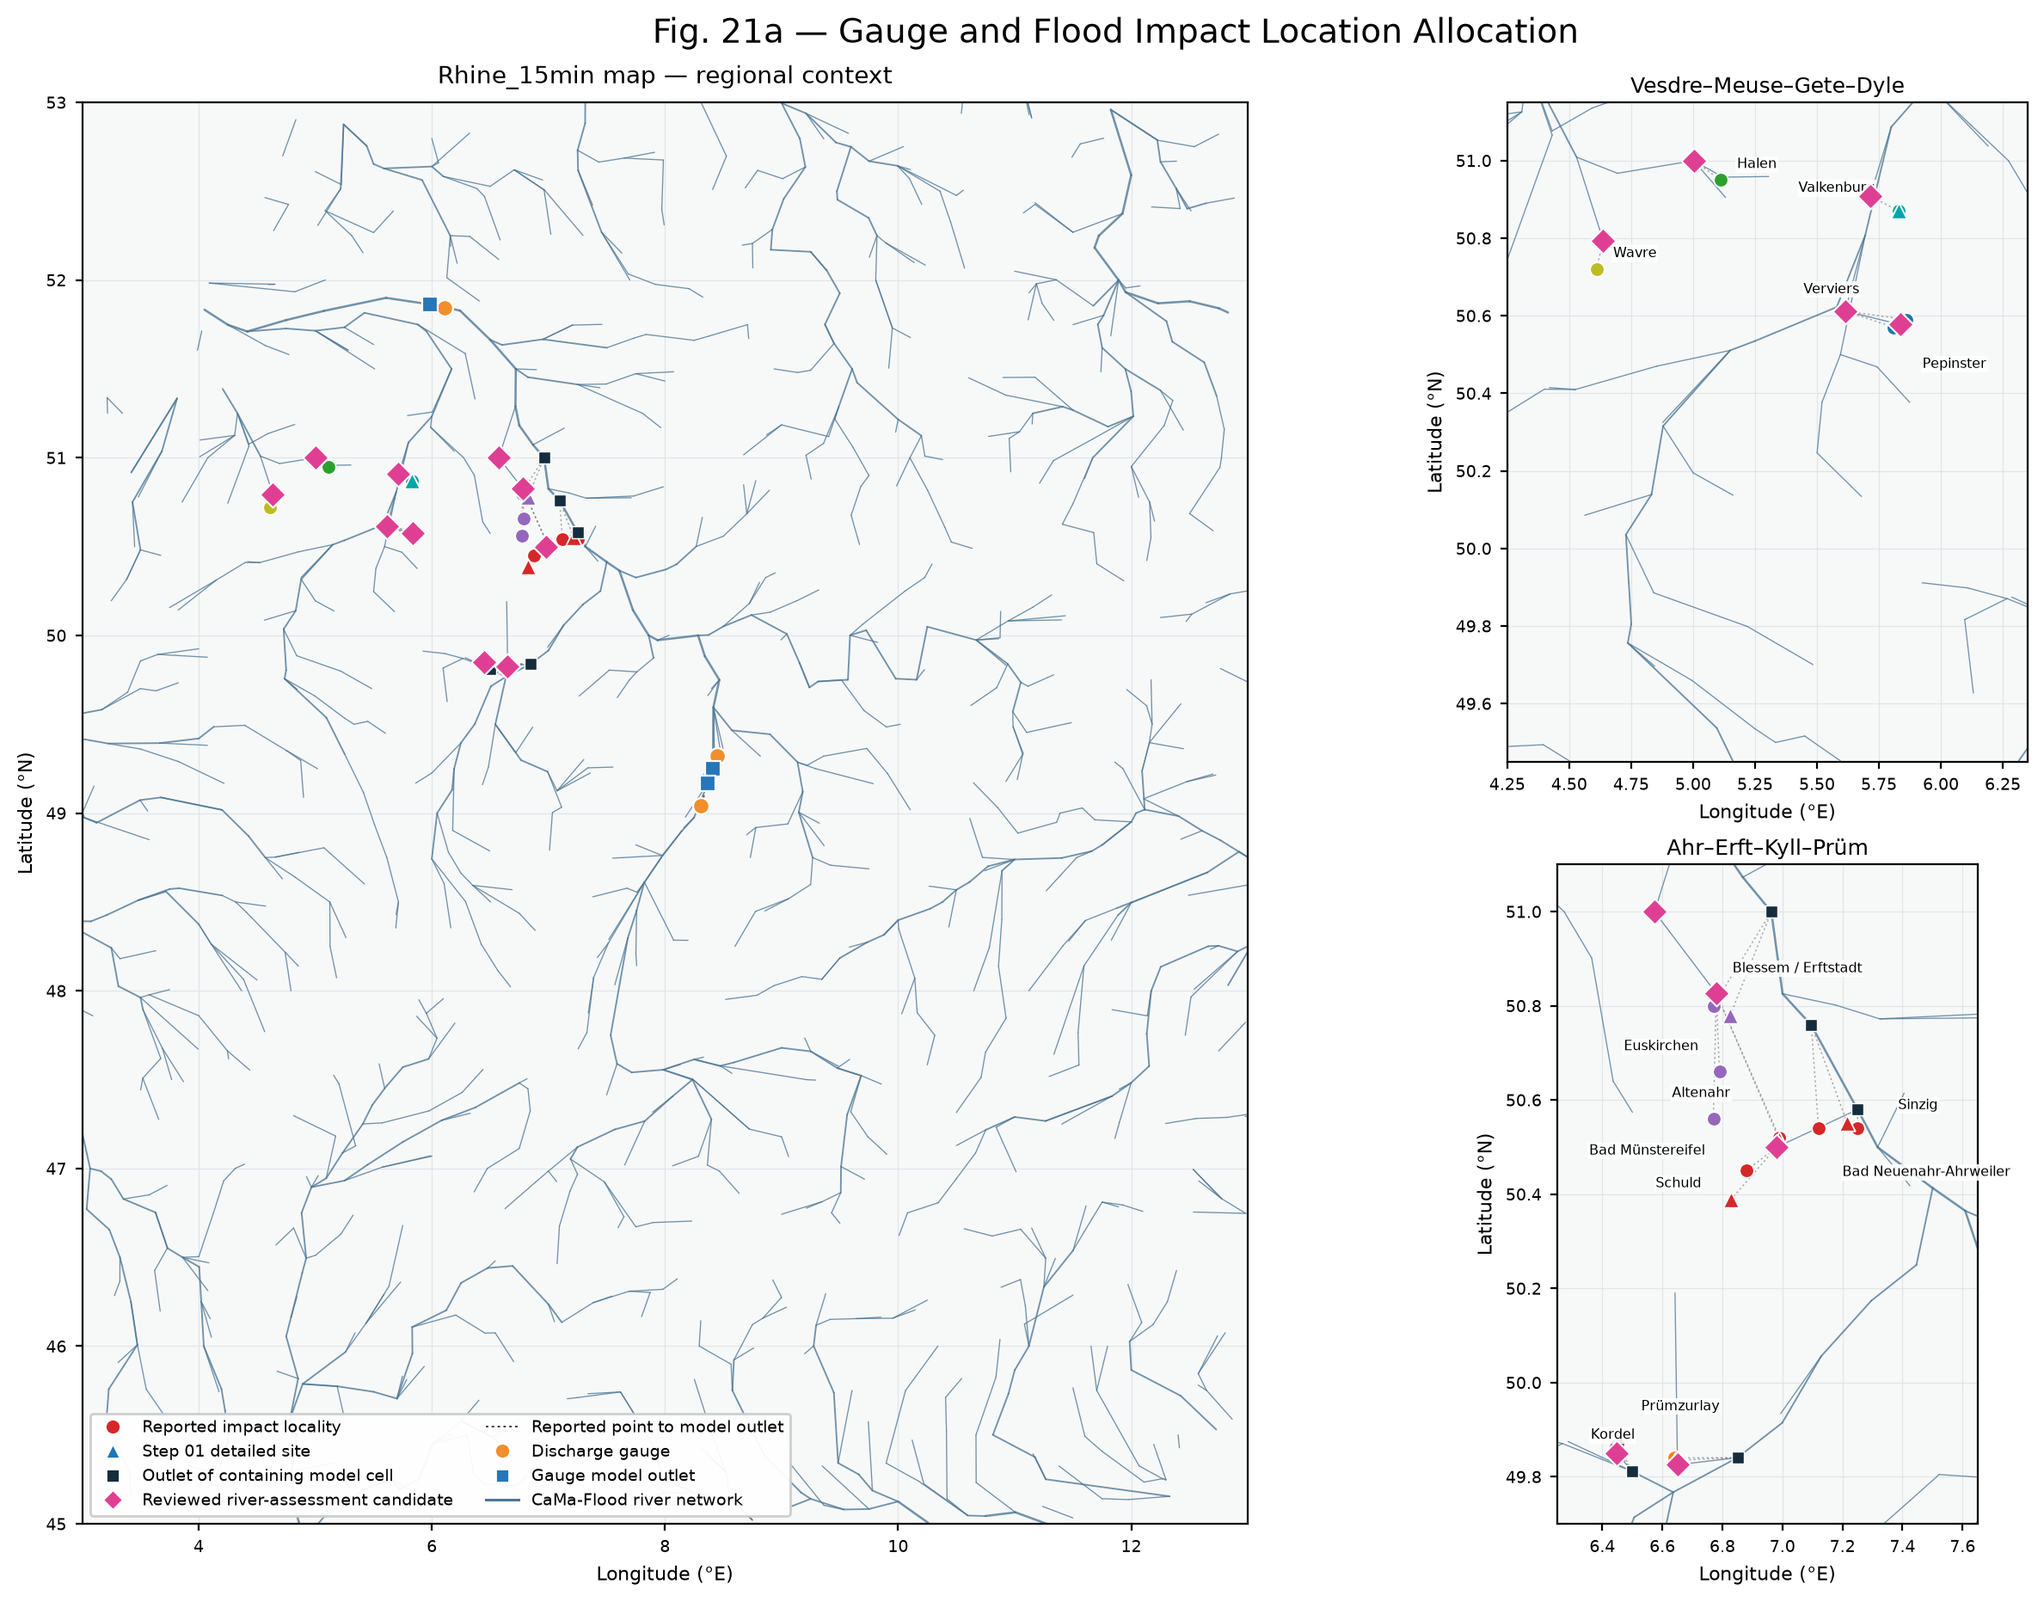
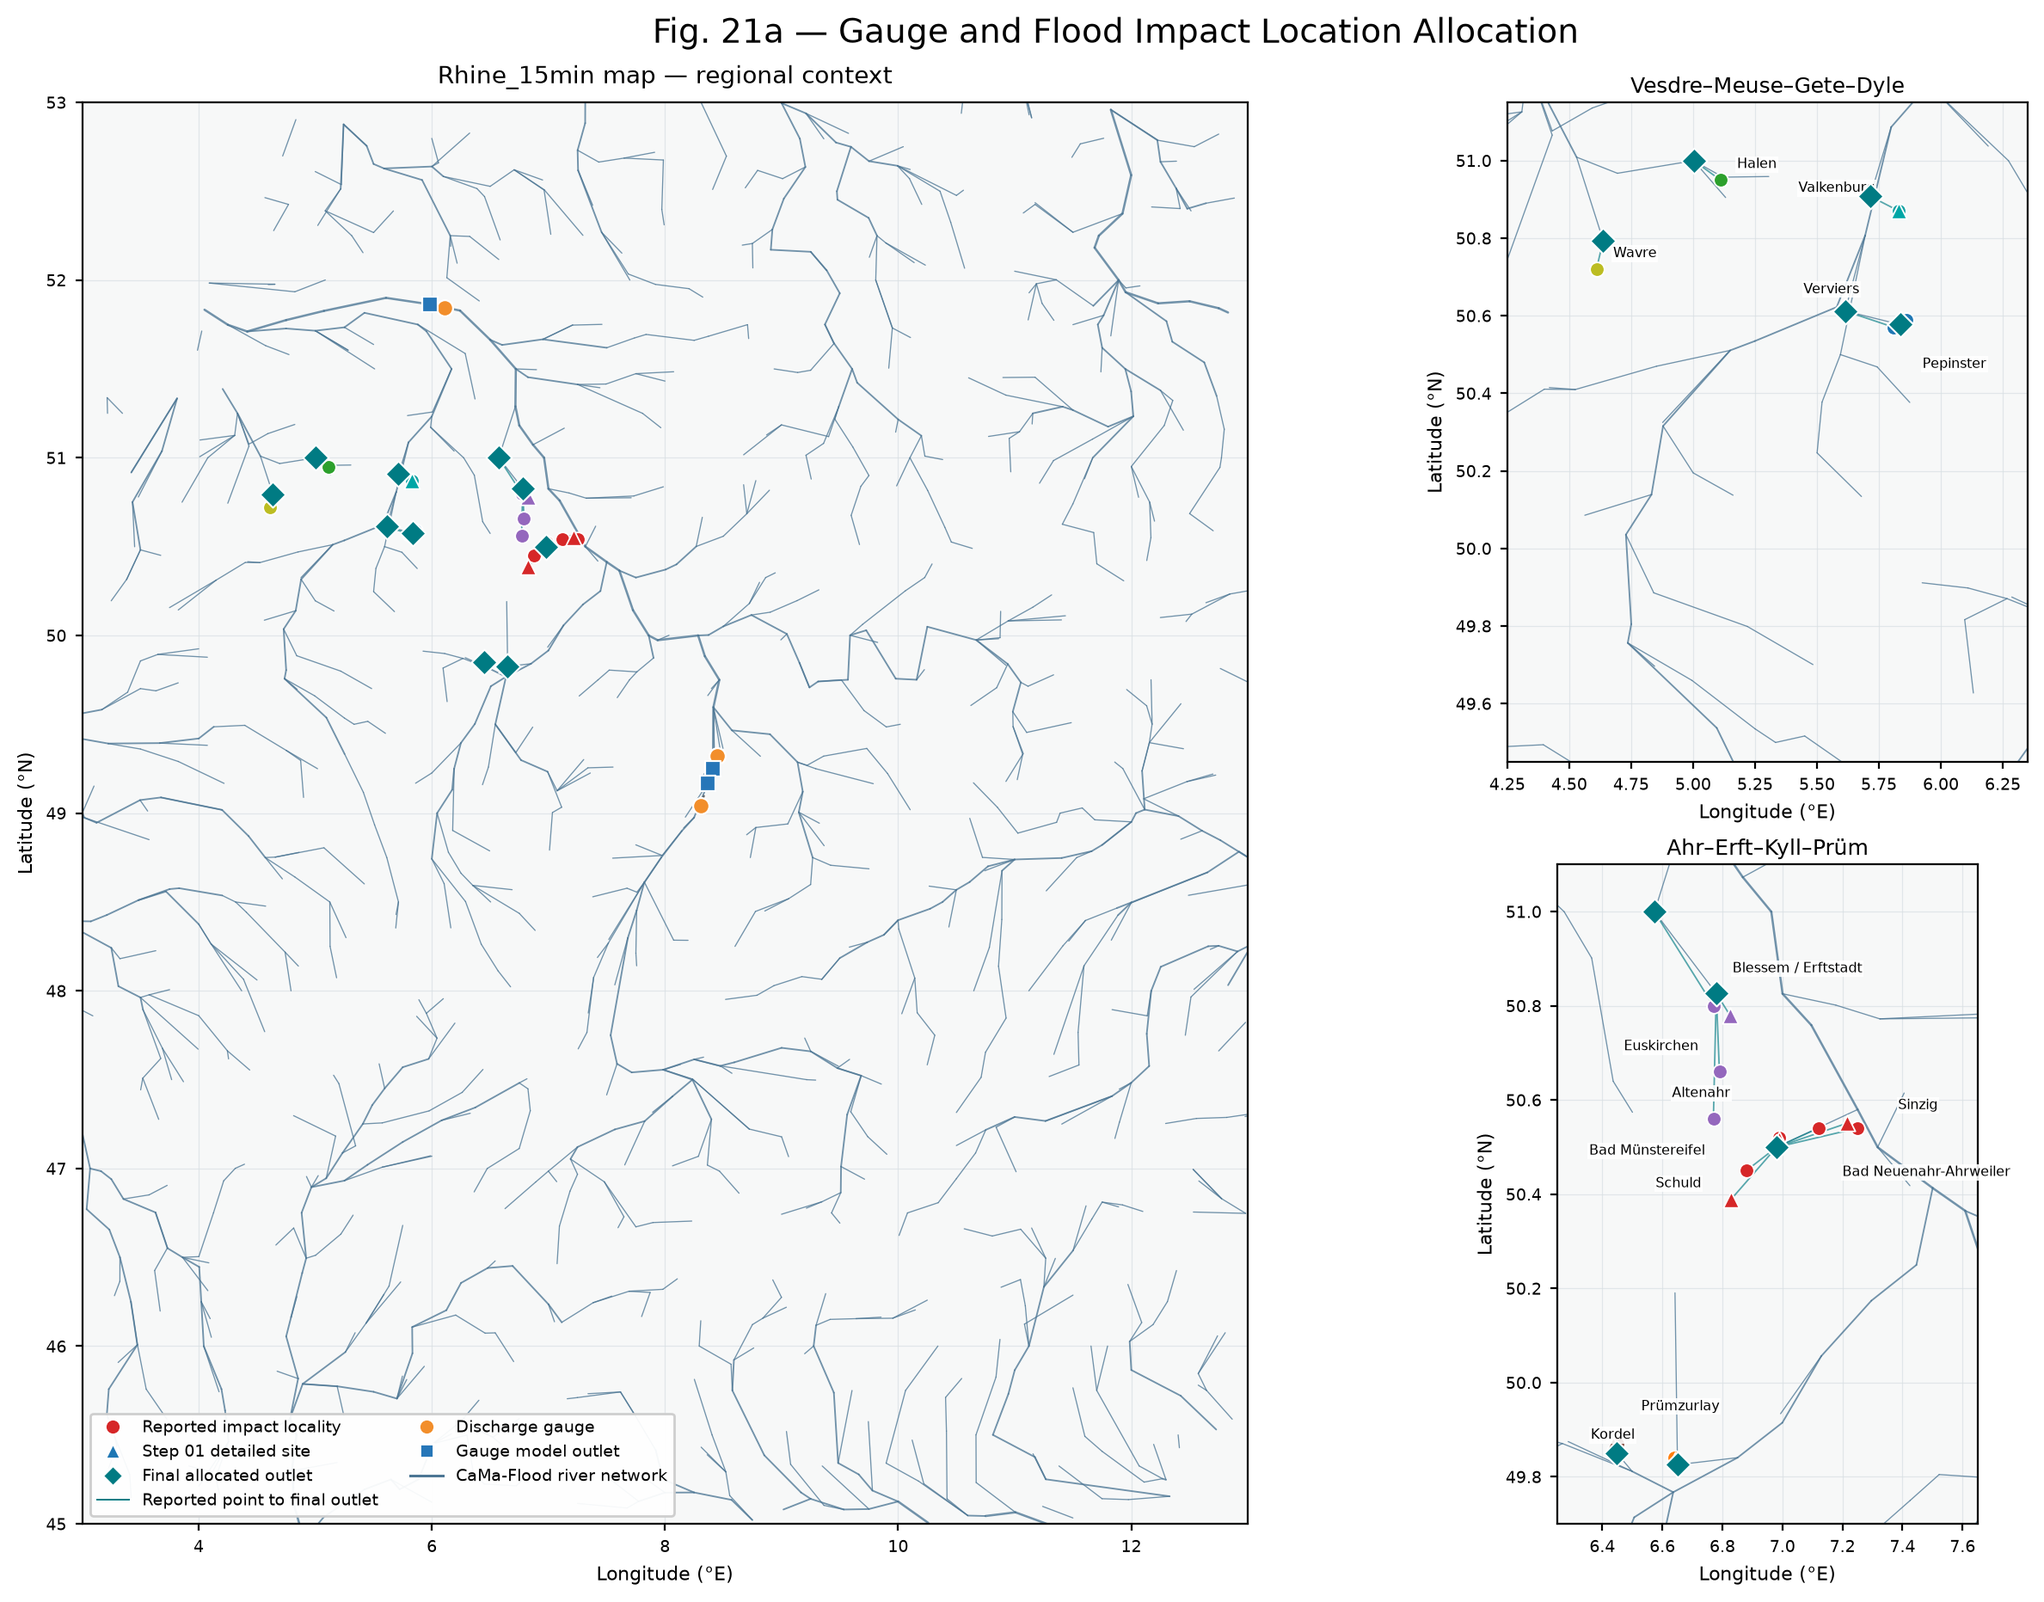
Show only final adopted allocations in Figure 21

diff --git a/tutorial/tutorial11-event_evaluation/script/f21-gauge_allocation.py b/tutorial/tutorial11-event_evaluation/script/f21-gauge_allocation.py
@@ -131,33 +131,34 @@ RIVER_COLORS = {
 }
 
 
+def final_impact_outlet(row):
+    """Return only the adopted evaluation outlet; never fall back to old assignments."""
+    if (row.get("river_allocation_status") not in {"confirmed", "plausible"} or
+            not row.get("river_model_outlet_lon") or not row.get("river_model_outlet_lat")):
+        return None
+    return float(row["river_model_outlet_lon"]), float(row["river_model_outlet_lat"])
+
+
 def add_impact_allocations(ax, records: list[dict[str, str]], label_impacts: bool = False,
                            label_details: bool = False) -> None:
     """Show source locations, assigned model outlets and their separation."""
     # Repeated reports can refer to one town or one grid cell. Draw each
     # coordinate-to-outlet connector only once to avoid artificial emphasis.
-    connectors = set()
-    river_candidates = set()
+    connectors, outlets = set(), set()
     for row in records:
-        if row["allocation_status"] != "assigned_to_containing_grid_cell":
+        outlet = final_impact_outlet(row)
+        if outlet is None or not row["observed_lon"] or not row["observed_lat"]:
             continue
-        observed = (float(row["observed_lon"]), float(row["observed_lat"]))
-        outlet = (float(row["model_outlet_lon"]), float(row["model_outlet_lat"]))
-        key = tuple(round(v, 6) for v in (*observed, *outlet))
+        observed = float(row["observed_lon"]), float(row["observed_lat"])
+        key = tuple(round(value, 6) for value in (*observed, *outlet))
         if key not in connectors:
             ax.plot([observed[0], outlet[0]], [observed[1], outlet[1]],
-                    color="#3d3d3d", linewidth=0.55, linestyle=(0, (1.5, 2)),
-                    alpha=0.42, zorder=3)
+                    color="#007b83", linewidth=.65, alpha=.65, zorder=3)
             connectors.add(key)
-        if (row.get("river_allocation_status") in {"confirmed", "plausible"}
-                and row.get("river_model_outlet_lon") and row.get("river_model_outlet_lat")):
-            candidate = (float(row["river_model_outlet_lon"]),
-                         float(row["river_model_outlet_lat"]))
-            candidate_key = tuple(round(value, 6) for value in candidate)
-            if candidate_key not in river_candidates:
-                ax.scatter(*candidate, s=58, marker="D", facecolor="#df3f93",
-                           edgecolor="white", linewidth=0.75, zorder=10)
-                river_candidates.add(candidate_key)
+        if outlet not in outlets:
+            ax.scatter(*outlet, s=58, marker="D", facecolor="#007b83",
+                       edgecolor="white", linewidth=.75, zorder=10)
+            outlets.add(outlet)
 
     for row in records:
         if not row["observed_lon"] or not row["observed_lat"]:
@@ -169,10 +170,6 @@ def add_impact_allocations(ax, records: list[dict[str, str]], label_impacts: boo
         size = 36 if is_impact else 44
         ax.scatter(*observed, s=size, marker=marker, facecolor=color,
                    edgecolor="white", linewidth=0.65, zorder=7)
-        if row["allocation_status"] == "assigned_to_containing_grid_cell":
-            outlet = (float(row["model_outlet_lon"]), float(row["model_outlet_lat"]))
-            ax.scatter(*outlet, s=27, marker="s", facecolor="#152c3d",
-                       edgecolor="white", linewidth=0.5, zorder=8)
         impact_offsets = {
             "ahr-schuld": (-38, -7), "ahr-altenahr": (-45, 17),
             "ahr-bad-neuenahr": (10, -20), "ahr-sinzig": (17, 8),
@@ -199,12 +196,10 @@ def impact_legend_handles():
                markeredgecolor="white", markersize=6.5, label="Reported impact locality"),
         Line2D([0], [0], marker="^", color="none", markerfacecolor="#1f77b4",
                markeredgecolor="white", markersize=6.5, label="Step 01 detailed site"),
-        Line2D([0], [0], marker="s", color="none", markerfacecolor="#152c3d",
-               markeredgecolor="white", markersize=6, label="Outlet of containing model cell"),
-        Line2D([0], [0], marker="D", color="none", markerfacecolor="#df3f93",
-               markeredgecolor="white", markersize=6, label="Reviewed river-assessment candidate"),
-        Line2D([0], [0], color="#3d3d3d", linestyle=(0, (1.5, 2)), linewidth=.7,
-               label="Reported point to model outlet"),
+        Line2D([0], [0], marker="D", color="none", markerfacecolor="#007b83",
+               markeredgecolor="white", markersize=6, label="Final allocated outlet"),
+        Line2D([0], [0], color="#007b83", linewidth=.7,
+               label="Reported point to final outlet"),
         Line2D([0], [0], marker="o", color="none", markerfacecolor="#f28e2b",
                markeredgecolor="white", markersize=6.5, label="Discharge gauge"),
         Line2D([0], [0], marker="s", color="none", markerfacecolor="#2676b8",
@@ -274,30 +269,26 @@ def draw_catchment_review(tutorial, map_dir, impact_records, map_data, segments,
         if west<middle[0]<east and south<middle[1]<north:
             start=.58*segment[0]+.42*segment[1];end=.42*segment[0]+.58*segment[1]
             ax.annotate("",end,start,arrowprops=dict(arrowstyle="->",color="#315c7b",lw=.7,mutation_scale=7),zorder=3)
-    selected=[r for r in impact_records if r["catmxy_status"]=="assigned" and
-              west<=float(r["observed_lon"])<=east and south<=float(r["observed_lat"])<=north]
-    old_drawn,new_drawn,proxy_drawn=set(),set(),set()
+    selected = [row for row in impact_records if row["observed_lon"] and row["observed_lat"] and
+                west <= float(row["observed_lon"]) <= east and south <= float(row["observed_lat"]) <= north]
+    drawn, connectors = set(), set()
     for row in selected:
-        observed=(float(row["observed_lon"]),float(row["observed_lat"]))
-        old=(float(row["model_outlet_lon"]),float(row["model_outlet_lat"]))
-        new=(float(row["catmxy_outlet_lon"]),float(row["catmxy_outlet_lat"]))
-        ax.plot([observed[0],old[0]],[observed[1],old[1]],color="#d27b17",lw=.65,ls=":",alpha=.7,zorder=4)
-        ax.plot([observed[0],new[0]],[observed[1],new[1]],color="#007b83",lw=.85,alpha=.8,zorder=4)
-        if old not in old_drawn:
-            ax.scatter(*old,s=85,marker="s",facecolors="none",edgecolors="#d27b17",lw=1.4,zorder=6);old_drawn.add(old)
-        if new not in new_drawn:
-            ax.scatter(*new,s=42,marker="D",c="#007b83",edgecolors="white",lw=.7,zorder=7);new_drawn.add(new)
-            ax.annotate(f"({row['catmxy_row_0based']},{row['catmxy_col_0based']})",new,
-                        xytext=(4,7),textcoords="offset points",fontsize=7,color="#005b61",zorder=9,
-                        bbox=dict(facecolor="white",alpha=.85,edgecolor="none",pad=1))
-        if row.get("river_correction_applied") == "true":
-            proxy = (float(row["river_model_outlet_lon"]), float(row["river_model_outlet_lat"]))
-            ax.plot([observed[0],proxy[0]],[observed[1],proxy[1]],color="#a124a5",lw=.9,ls="--",alpha=.8,zorder=5)
-            if proxy not in proxy_drawn:
-                ax.scatter(*proxy,s=120,marker="*",c="#a124a5",edgecolors="white",lw=.6,zorder=11)
-                proxy_drawn.add(proxy)
-        locality=row["report_id"].startswith("impact-")
-        ax.scatter(*observed,s=38,marker="o" if locality else "^",c="#ac2446",edgecolors="white",lw=.7,zorder=8)
+        observed = float(row["observed_lon"]), float(row["observed_lat"])
+        outlet = final_impact_outlet(row)
+        if outlet is not None:
+            key = (*observed, *outlet)
+            if key not in connectors:
+                ax.plot([observed[0], outlet[0]], [observed[1], outlet[1]],
+                        color="#007b83", lw=.85, alpha=.8, zorder=4)
+                connectors.add(key)
+            if outlet not in drawn:
+                ax.scatter(*outlet, s=52, marker="D", c="#007b83", edgecolors="white", lw=.7, zorder=7)
+                ax.annotate(f"({row['river_model_row_0based']},{row['river_model_col_0based']})", outlet,
+                            xytext=(4,7), textcoords="offset points", fontsize=7, color="#005b61", zorder=9,
+                            bbox=dict(facecolor="white",alpha=.85,edgecolor="none",pad=1))
+                drawn.add(outlet)
+        locality = row["report_id"].startswith("impact-")
+        ax.scatter(*observed, s=38, marker="o" if locality else "^", c="#ac2446", edgecolors="white", lw=.7, zorder=8)
     focus={"ahr-schuld":("Schuld",(-30,-18)),"ahr-altenahr":("Altenahr",(-42,16)),
            "ahr-bad-neuenahr":("Bad Neuenahr",(8,-20)),"erft-blessem":("Blessem",(-25,14)),
            "erft-bad-muenstereifel":("Bad Muenstereifel",(-60,-17)),"erft-euskirchen":("Euskirchen",(-43,12))}
@@ -314,13 +305,11 @@ def draw_catchment_review(tutorial, map_dir, impact_records, map_data, segments,
       Line2D([],[],color="#4c7694",label="nextxy / downstream arrows"),
       Line2D([],[],marker="o",ls="none",color="#ac2446",label="Reported locality"),
       Line2D([],[],marker="^",ls="none",color="#ac2446",label="Detailed report site"),
-      Line2D([],[],marker="s",ls=":",color="#d27b17",mfc="none",label="Old geographic-cell outlet"),
-      Line2D([],[],marker="D",color="#007b83",label="Direct catmxy outlet / connector"),
+      Line2D([],[],marker="D",color="#007b83",label="Final allocated outlet / connector"),
       Patch(facecolor="#999999",label="Unassigned land (catmxy=-999)"),
-      Patch(facecolor="white",edgecolor="#bbbbbb",label="Other NoData / background"),
-      Line2D([],[],marker="*",ls="--",color="#a124a5",label="Upstream tributary proxy / connector")]
+      Patch(facecolor="white",edgecolor="#bbbbbb",label="Other NoData / background")]
     fig.legend(handles=handles,loc="lower center",bbox_to_anchor=(.5,.35/fh),ncol=2,fontsize=7.5,frameon=False)
-    fig.text(.5,.15/fh,"Zero-based (row,col). Purple proxies omit downstream area; they do not resolve exact local reaches.",ha="center",fontsize=7)
+    fig.text(.5,.15/fh,"Final cells only; zero-based (row,col). Ahr upstream proxies omit downstream area.",ha="center",fontsize=7)
     fig.canvas.draw()
     # Retain physical axes bounds and extent for reproducible layout inspection.
     bounds=ax.get_position().bounds

diff --git a/tutorial/tutorial11-event_evaluation/AI_survey_report/21_gauge_allocation.md b/tutorial/tutorial11-event_evaluation/AI_survey_report/21_gauge_allocation.md
@@ -62,17 +62,20 @@ and [Erftverband Bliesheim record](https://www.erftverband.de/mapserver/arcshp/f
 
 ![Fig. 21a — Regional allocations](../figure/f21a-gauge_allocation.png)
 
-The retained regional layout now shows final reviewed evaluation candidates
-as magenta diamonds, separate from geographic-cell outlets.
+Fig. 21a shows reported locations and only their final adopted evaluation
+outlets (teal diamonds), with point-to-final-outlet connectors. The original
+geographic outlets and uncorrected allocation alternatives are omitted.
 
-![Fig. 21b — Direct catchments and upstream proxy](../figure/f21b-catchment_allocation.png)
+![Fig. 21b — Final allocations on unit catchments](../figure/f21b-catchment_allocation.png)
 
 Discrete pastel regions and exact pixel-edge boundaries show one-minute unit
-catchments, with geographic grid lines only as context. Blue nextxy arrows are
-downstream. Orange open squares/dotted lines show geographic outlets; teal
-diamonds/solid lines show direct catmxy outlets. Purple stars/dashed point
-connectors identify corrected upstream proxies. The connectors are assignment
-guides, not actual river courses. Unassigned land is gray; other NoData is white.
+catchments; blue nextxy arrows show downstream connectivity. Teal diamonds and
+solid connectors show only final `river_model_*` allocations, including the
+adopted Ahr upstream proxies. Their labels use final zero-based row/column.
+Historical and uncorrected alternatives remain in the CSV for provenance but
+are not displayed. Point connectors are assignment guides, not river courses.
+Unassigned land is gray; other NoData/background is white. The upstream-proxy
+limitations still apply even though alternatives are no longer drawn.
 
 ## Handoff and limits
 

diff --git a/tutorial/tutorial11-event_evaluation/p21-gauge_allocation.md b/tutorial/tutorial11-event_evaluation/p21-gauge_allocation.md
@@ -87,8 +87,9 @@ by this integration. The previous review is retained in `prior_*` fields;
 Save full paths/source hashes in `metadata/21_catchment_review.json`. Preserve
 all 22 report/location IDs, original notes with appended new evidence, repeated
 cells, and ai_notes as the last column. Keep the regional Figure plus the
-Ahr–Erft companion with old geographic outlets, direct catmxy outlets, and
-corrected upstream proxies clearly distinguished. Edit its extent in the Shell.
+Ahr–Erft companion showing only the final adopted `river_model_*` outlets
+and point connectors. Do not draw geographic or uncorrected alternatives;
+retain those fields in the CSV for provenance. Edit its extent in the Shell.
 Do not modify reference Tutorial 02/Visualization code or map/simulation inputs.
 
 Existing Step23 code and prior outputs are retained from the remote branch.

diff --git a/tutorial/tutorial11-event_evaluation/development_log/development_log.md b/tutorial/tutorial11-event_evaluation/development_log/development_log.md
@@ -812,3 +812,11 @@ and the catchment detail to `f21b-catchment_allocation.png` (Fig. 21b).
 Updated rendered titles, Shell/Python output paths and current document references.
 Both images are still generated by `f21-gauge_allocation.sh`; allocation data
 and drawing methods are unchanged.
+
+## 2026-11-24 — Display only final Figure 21 allocations
+
+Fig.21a/21b now draw only adopted river_model outlets and point connectors.
+Removed historical geographic and uncorrected alternative allocation markers,
+connectors and legend entries. Catchment background and network remain; original
+CSV/provenance and proxy limitations are unchanged. Re-rendered both Figures
+and reviewed the saved output.

diff --git a/tutorial/tutorial11-event_evaluation/AI_work_report/21_gauge_allocation.md b/tutorial/tutorial11-event_evaluation/AI_work_report/21_gauge_allocation.md
@@ -36,8 +36,9 @@ MPLCONFIGDIR=/tmp/cmf-mpl-cache bash f21-gauge_allocation.sh
 ```
 
 Writes the impact CSV, full-path/source-hash JSON and two Step21 Figures. The
-regional Figure retains the remote review symbols; the catchment companion adds
-purple corrected proxies while keeping raw catmxy and geographic outlets.
+regional Figure and catchment companion show only adopted `river_model_*`
+outlets and connectors. Historical/geographic/raw alternatives remain in the CSV
+but are excluded from both Figures; labels and legends identify final cells.
 Prompt, Survey Report, this report, process/log/dashboard and research evidence
 are aligned to the final contract.
 
